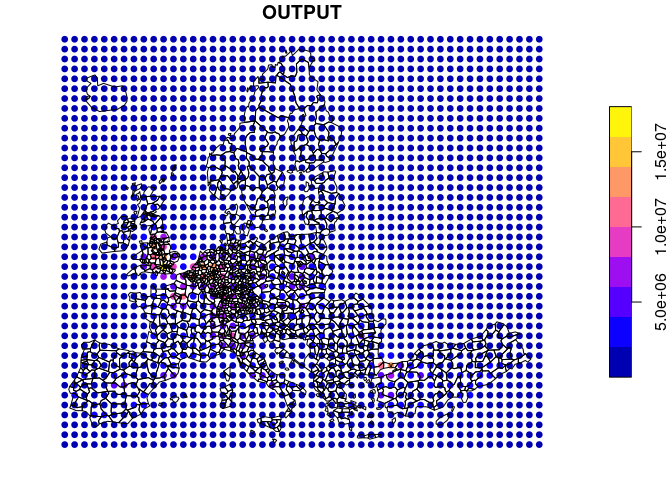
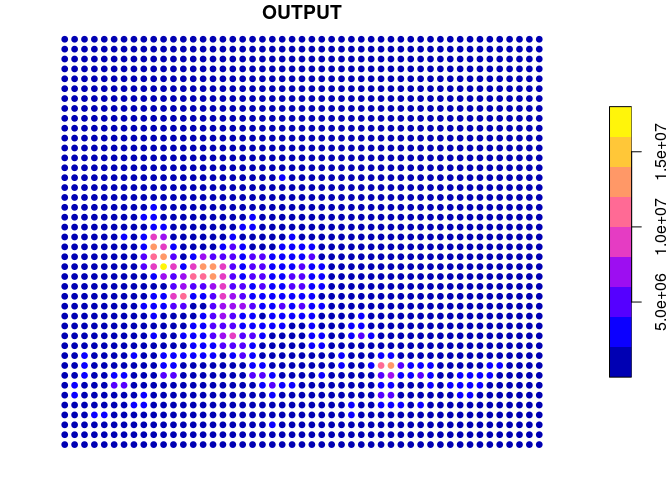
clean

Changed region(s): [[0.0938, 0.0938, 0.7812, 0.9375], [0.125, 0.1562, 0.1875, 0.2188], [0.1562, 0.2188, 0.1875, 0.25]]

diff --git a/README.md b/README.md
@@ -71,8 +71,8 @@ pot <- potential(
   fun = "e", span = 75000,
   beta = 2
 )
-plot(pot["OUTPUT"], reset = FALSE, pch= 20, cex = 1.2)
-plot(st_geometry(n3_poly), add = TRUE)
+
+plot(pot["OUTPUT"], pch= 20, cex = 1.2)
 ```
 
 ![](README_files/figure-gfm/unnamed-chunk-4-1.png)<!-- -->
